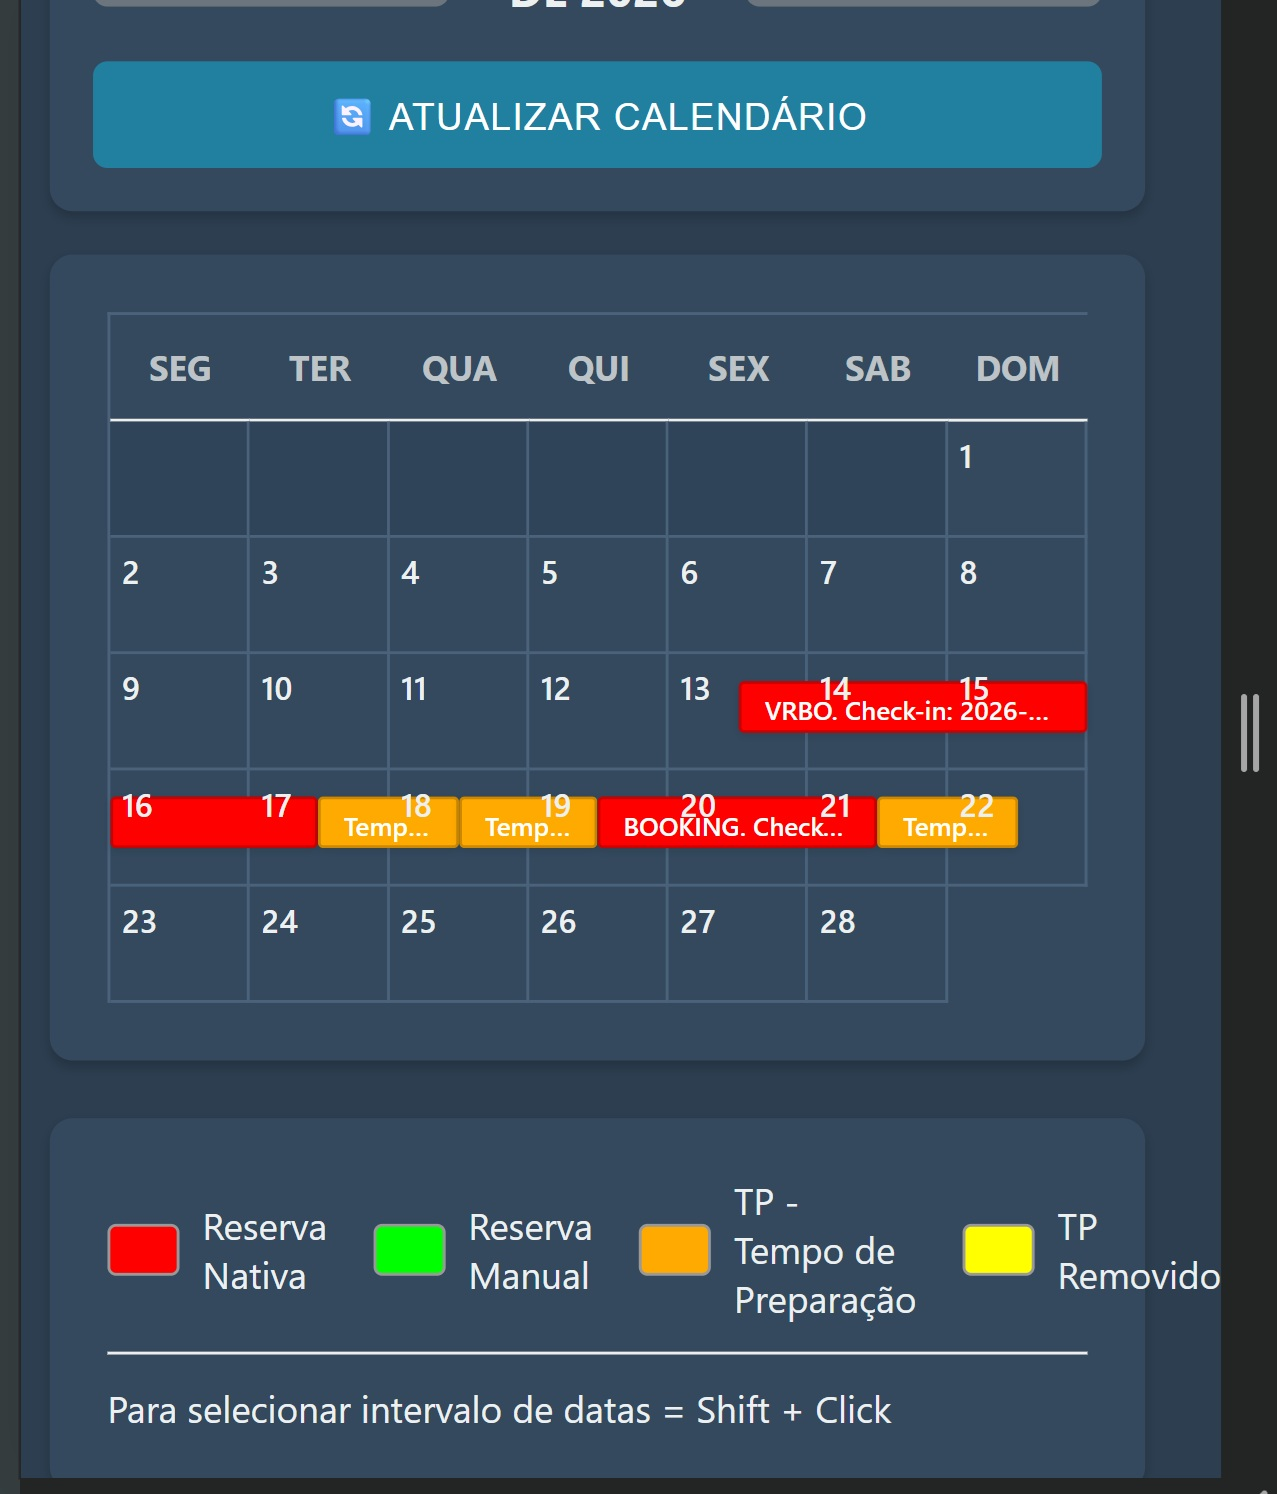
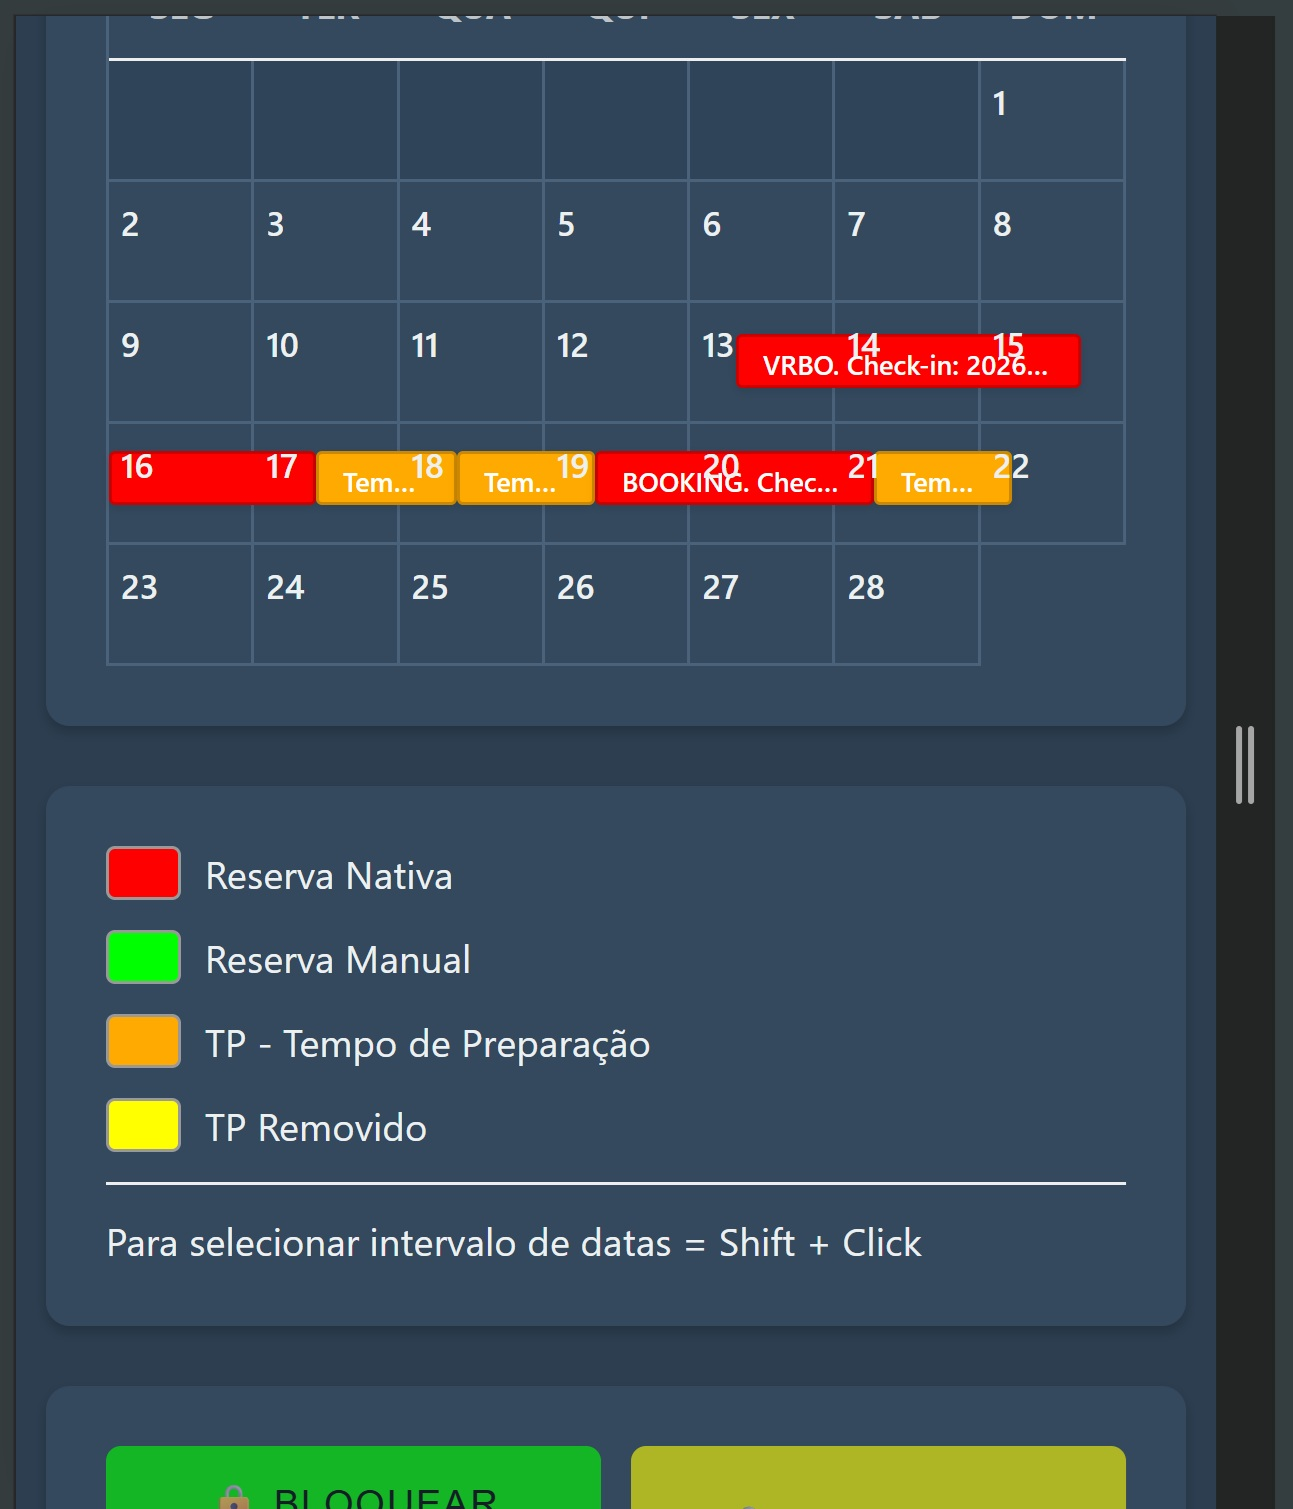
Rental Calendas Sync 20260212

diff --git a/templates/manual_editor.html b/templates/manual_editor.html
@@ -902,7 +902,11 @@
                     if (event.end === prevDateStr) {
                         const firstCell = dayCells.find(c => c.dataset.date === firstVisibleDateStr);
                         if (firstCell) {
-                            const barYPosition = firstCell.offsetHeight - 25; // Position bar at the bottom
+                            const isMobile = window.innerWidth < 768;
+                            const barHeight = isMobile ? 18 : 22;
+                            const bottomMargin = 3; // px
+                            const barYPosition = firstCell.offsetHeight - barHeight - bottomMargin;
+
                             const hangoverBar = document.createElement('div');
                             hangoverBar.className = `event-bar ${CATEGORYCLASS[event.category] || ''}`;
                             hangoverBar.style.left = `${firstCell.offsetLeft}px`;
@@ -945,7 +949,10 @@
                 if (cellsInView.length === 0) continue;
 
                 const firstCell = cellsInView[0];
-                const barYPosition = firstCell.offsetHeight - 25; // Position bar at the bottom
+                const isMobile = window.innerWidth < 768;
+                const barHeight = isMobile ? 18 : 22;
+                const bottomMargin = 3; // px
+                const barYPosition = firstCell.offsetHeight - barHeight - bottomMargin;
 
                 // Group cells by visual row
                 const lineGroups = [];
